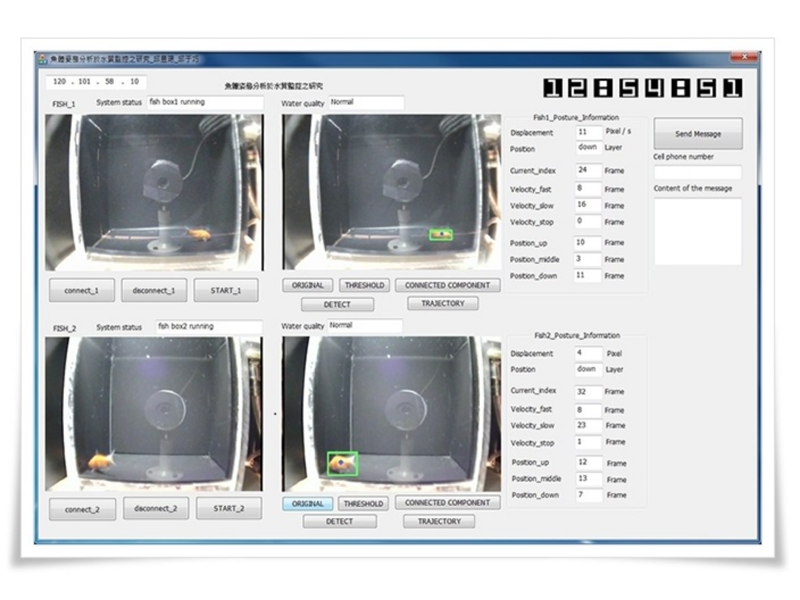
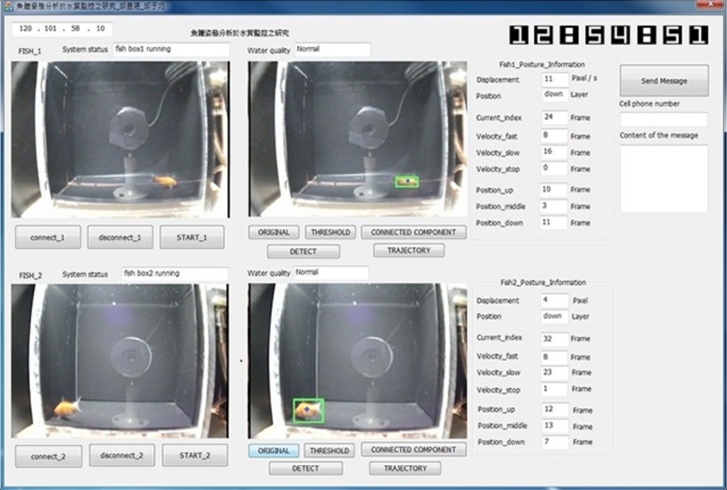
update weekend project - 1)safe eats and blinky box

diff --git a/index.html b/index.html
@@ -5,7 +5,7 @@
         <meta name="viewport" content="width=device-width, initial-scale=1, shrink-to-fit=no" />
         <meta name="description" content="" />
         <meta name="author" content="" />
-        <title>Anson's Portfolio</title>
+        <title>Meet Anson - Innovator and Developer</title>
         <link rel="icon" type="image/x-icon" href="assets/img/favicon.ico" />
         <!-- Font Awesome icons (free version)-->
         <script src="https://use.fontawesome.com/releases/v6.3.0/js/all.js" crossorigin="anonymous"></script>
@@ -19,7 +19,7 @@
         <!-- Navigation-->
         <nav class="navbar navbar-expand-lg navbar-dark bg-primary fixed-top" id="sideNav">
             <a class="navbar-brand js-scroll-trigger" href="#page-top">
-                <span class="d-block d-lg-none">Anson Chiu - Portfolio</span>
+                <span class="d-block d-lg-none">Meet Anson - Innovator and Developer</span>
                 <span class="d-none d-lg-block"><img class="img-fluid img-profile rounded-circle mx-auto mb-2" src="assets/img/ansonChiu.jpg" alt="..." /></span>
             </a>
             <button class="navbar-toggler" type="button" data-bs-toggle="collapse" data-bs-target="#navbarResponsive" aria-controls="navbarResponsive" aria-expanded="false" aria-label="Toggle navigation"><span class="navbar-toggler-icon"></span></button>
@@ -93,12 +93,20 @@
                                     <li>參與團隊擴展和招聘工作，最終管理了一支由 5 到 10 人（包括實習生）組成的工程團隊，負責技術培訓和項目協調。</li>
                                 </ul>
                             </p> -->
+                            
+                            <!-- Simple Version -->
+                            <!-- Technical Research and Project Management
+                            •	Led the development of a 3D content social app, integrating ARFoundation (ARKit) with Unity and C#, along with AWS for account management and 3D file handling, which attracted significant investor interest.
+                            •	Collaborated with a U.S. team on multi-camera 3D modeling algorithms using techniques like KinectFusion and tools like OpenCV and Open3D.
+                            •	Launched a 3D modeling workflow and partnered with a well-known Taiwanese quiz show to integrate 3D volumetric characters with live scenes, showcasing technology in the entertainment sector.
+                            •	Developed a sports training detection system for U.S. clients, focusing on ball detection, multi-camera calibration, and deploying the system in large sports venues.
+                            •	Participated in a remote physical therapy project using 2D and depth camera data to reconstruct 3D body models for post-therapy posture analysis. Integrated research into a Docker-based CI/CD pipeline for deployment on AWS, enabling automated, scalable, and real-time processing. -->
 
                             <p>
                                 <strong>Technical Research and Project Management</strong>
                                 <ul class="custom-list">
                                     <li>Led the development of the company’s proprietary 3D content social app, integrating ARFoundation (ARKit) with Unity’s 3D rendering capabilities, using C# for development. The project also involved communication with AWS, including user account registration, login and logout functionality, as well as uploading and downloading 3D files to and from mobile devices. The final outcome successfully attracted significant investments from multiple investors.</li>
-                                    <li>Collaborated with the U.S. team on multi-camera 3D modeling algorithms, referencing techniques like KinectFusion and DynamicFusion, utilizing tools such as OpenCV and dlib for deep learning and modeling.</li>
+                                    <li>Collaborated with the U.S. team on multi-camera 3D modeling algorithms, referencing techniques like KinectFusion and DynamicFusion, utilizing tools such as OpenCV and Open3D for deep learning and modeling.</li>
                                     <li>Successfully brought the 3D modeling workflow to market and collaborated with a well-known Taiwanese quiz show to achieve interactive effects between 3D volumetric characters and live scenes, demonstrating the application of the technology in the entertainment industry.</li>
                                     <li>Worked with U.S. clients to develop a football training detection system, handling soccer detection, multi-camera calibration, and training app development. The system, utilizing Open3D and calibration techniques, was successfully deployed in large sports venues for multiple teams.</li>
                                     <!-- <li>Utilized Meshlab and Pymesh tools to optimize 3D model processing, focusing on improving the precision and quality of the models.</li> -->
@@ -106,6 +114,14 @@
                                 </ul>
                             </p>
                             
+
+                            <!-- Simple Version -->
+                            <!-- Technical Development and Tool Building
+
+                            •	Developed and showcased 3D volumetric videos in Unity-based mobile apps across sports, social media, and television, primarily using C++, Python, and Unity.
+                            •	Collaborated with the art team to streamline 3D modeling workflows, creating multiple Blender tool scripts with Python to enhance detail and reduce production time.
+                            •	Created several 3D scanning apps using Swift and ARKit, allowing users to capture and generate watertight 3D models in real-time on mobile devices, referencing Apple’s scanning projects. -->
+
                             <p>
                                 <strong>Technical Development and Tool Building</strong>
                                 <ul class="custom-list">
@@ -398,7 +414,7 @@
                                     <span class="project-tag">C++</span>
                                     <span class="project-tag">MFC</span>
                                     <span class="project-tag">OpenCV</span>
-                                    <span class="project-tag">Computer Vision</span>
+                                    <span class="project-tag">CV</span>
                                 </div>
                                 <!-- <p class="project-description">該專案與自來水廠合作，旨在透過監控魚體姿態來評估水質狀況。我們引入取水源頭的水，分別導入兩個水箱中，每個水箱內都飼養了一隻已適應水質的朱文錦作為檢測魚。在水箱的前方與側面各設置了一台攝影機進行監控，透過背景移除和動態物件消除技術建立乾淨的背景，再結合形態學處理來精準抓取魚體區塊。隨後，我們利用SVM模型進行魚體朝向的辨識和分類，達成即時統計與水質分析的目的。當系統檢測到兩缸魚體皆出現異常行為時，會自動發送簡訊通知維護人員。該專案完全使用C++開發，並運用了多執行緒技術加速雙通道影像處理，同時採用MFC進行介面開發。</p> -->
                                 <p class="project-description">This project was developed in collaboration with the water treatment plant to assess water quality by analyzing fish posture. Water from the source is introduced into two separate tanks, each containing a goldfish (Carassius auratus) that has adapted to the water conditions. Cameras are positioned at the front and side of each tank to monitor the fish. The system leverages background removal and dynamic object elimination to establish a clean background, combined with morphological processing to accurately capture the fish’s body region. An SVM model is then used to classify and recognize the fish’s orientation, enabling real-time statistical analysis and water quality assessment. If both tanks show signs of abnormal fish behavior, the system automatically sends a text message to notify maintenance personnel. The entire project was developed in C++, with multi-threading used to accelerate dual-channel video processing, and MFC employed for interface development.</p>
@@ -414,13 +430,56 @@
                         <h3 class="project-category-title">
                             <span class="project-badge badge-weekend-project">Weekend Project</span>
                         </h3>
+                       
                         <div class="row">
+                            <div class="col-md-6">
+                                <img class="img-fluid small-project-image" src="assets/img/projects/Demo_toy_elements_list.JPG" alt="New Weekend Project Image">
+                                <img class="img-fluid small-project-image" src="assets/img/projects/Demo_toy_top_view.JPG" alt="New Weekend Project Image">
+                                <img class="img-fluid small-project-image" src="assets/img/projects/Demo_toy_ani.gif" alt="New Weekend Project Image">
+                            </div>
+                            <div class="col-md-6">
+                                <h3 class="project-title">Blinky Box</h3>
+                                <div class="project-tags">
+                                    <span class="project-tag">Toy</span>
+                                    <span class="project-tag">DIY</span>
+                                    <span class="project-tag">Electricity</span>
+                                </div>
+                                <!-- <p class="project-description">因為我的孩子喜歡玩電燈開關，我特別為他設計了一個手持式小玩具，讓他可以通過切換玩具上的不同類型開關，個別控制不同燈泡的亮起，滿足他的好奇心與探索欲。</p> -->
+                                <p class="project-description">Because my child loves playing with light switches, I created a handheld toy that allows them to toggle different types of switches to individually control various light bulbs, satisfying their curiosity and desire to explore.</p>
+                                <!-- <a href="https://github.com/BigTsung/pregnant_women_protector/tree/main" class="btn btn-primary" target="_blank">View Project on GitHub</a> -->
+                            </div>
+                        </div>
+                        <br><br>
+                        
+                        <div class="row">
+                            <div class="col-md-6">
+                                <img class="img-fluid small-project-image" src="assets/img/projects/Dem_baby_protector_search.jpg" alt="New Weekend Project Image">
+                                <img class="img-fluid small-project-image" src="assets/img/projects/Dem_baby_protector_add.jpg" alt="New Weekend Project Image">
+                                <img class="img-fluid small-project-image" src="assets/img/projects/Dem_baby_protector_ani.gif" alt="New Weekend Project Image">
+                            </div>
+                            <div class="col-md-6">
+                                <h3 class="project-title">Safe Eats</h3>
+                                <div class="project-tags">
+                                    <span class="project-tag">Unity</span>
+                                    <span class="project-tag">C#</span>
+                                </div>
+                                <!-- <p class="project-description">為了幫助我懷孕的太太快速確認哪些食物在懷孕期間不建議食用，我利用Unity開發了一個輕量級的2D應用。該應用能夠快速查詢食物的安全性、添加新的食物資訊至個人清單，以及通過提示燈顯示食物是否適合食用。</p> -->
+                                <p class="project-description">To help my pregnant wife quickly check which foods are not recommended during pregnancy, I developed a lightweight 2D app using Unity. The app allows for quick food safety checks, adding new food information to a personalized list, and indicating whether a food is safe to eat through an intuitive signal light.</p>
+                                <a href="https://github.com/BigTsung/pregnant_women_protector/tree/main" class="btn btn-primary" target="_blank">View Project on GitHub</a>
+                            </div>
+                        </div>
+                        <br><br>
+                        
+                        <div class="row mb-4">
                             <div class="col-md-6">
                                 <img class="img-fluid project-image" src="assets/img/projects/result_small_scaling_half.gif" alt="Weekend Project Image">
                             </div>
                             <div class="col-md-6">
                                 <h3 class="project-title">Automated Sensor Trash Can</h3>
-                                <!-- <p class="project-description">在空閒時間，我設計並製作了一個自動感應垃圾桶，當使用者靠近時，垃圾桶會自動開啟。這個專案涉及使用 Arduino 進行原型設計，整合感應器，並設計出緊湊的機械結構。這個垃圾桶提供了無接觸的使用體驗，既實用又充滿趣味性。</p> -->
+                                <div class="project-tags">
+                                    <span class="project-tag">C++</span>
+                                    <span class="project-tag">Arduino</span>
+                                </div>
                                 <p class="project-description">In my spare time, I designed and built an automated sensor trash can that opens when a user approaches. This project involved prototyping with Arduino, integrating sensors, and designing a compact mechanism. The trash can provides a touchless experience and is both practical and fun to use.</p>
                                 <a href="https://github.com/BigTsung/Arduino/tree/master/Smart_Trash_Can" class="btn btn-primary" target="_blank">View Project on GitHub</a>
                             </div>

diff --git a/css/styles.css b/css/styles.css
@@ -11073,6 +11073,7 @@ section.resume-section .resume-section-content {
 
 .project-image {
   width: 100%;
+  height:;
   height: auto;
   border-radius: 10px;
   box-shadow: 0 4px 8px rgba(0, 0, 0, 0.1);
@@ -11197,6 +11198,19 @@ section.resume-section .resume-section-content {
   height: auto;
   border-radius: 10px;
   box-shadow: 0 4px 8px rgba(0, 0, 0, 0.1);
+}
+
+.small-project-image {
+  width: 30%; /* 縮小每張圖片的寬度，以留出空間 */
+  height: auto;
+  margin-right: 10px; /* 設置圖片之間的間距 */
+  border-radius: 10px;
+  box-shadow: 0 4px 8px rgba(0, 0, 0, 0.1);
+}
+
+/* 確保最後一張圖片不會有多餘的右側間距 */
+.small-project-image:last-child {
+  margin-right: 0;
 }
 
 .btn-primary {